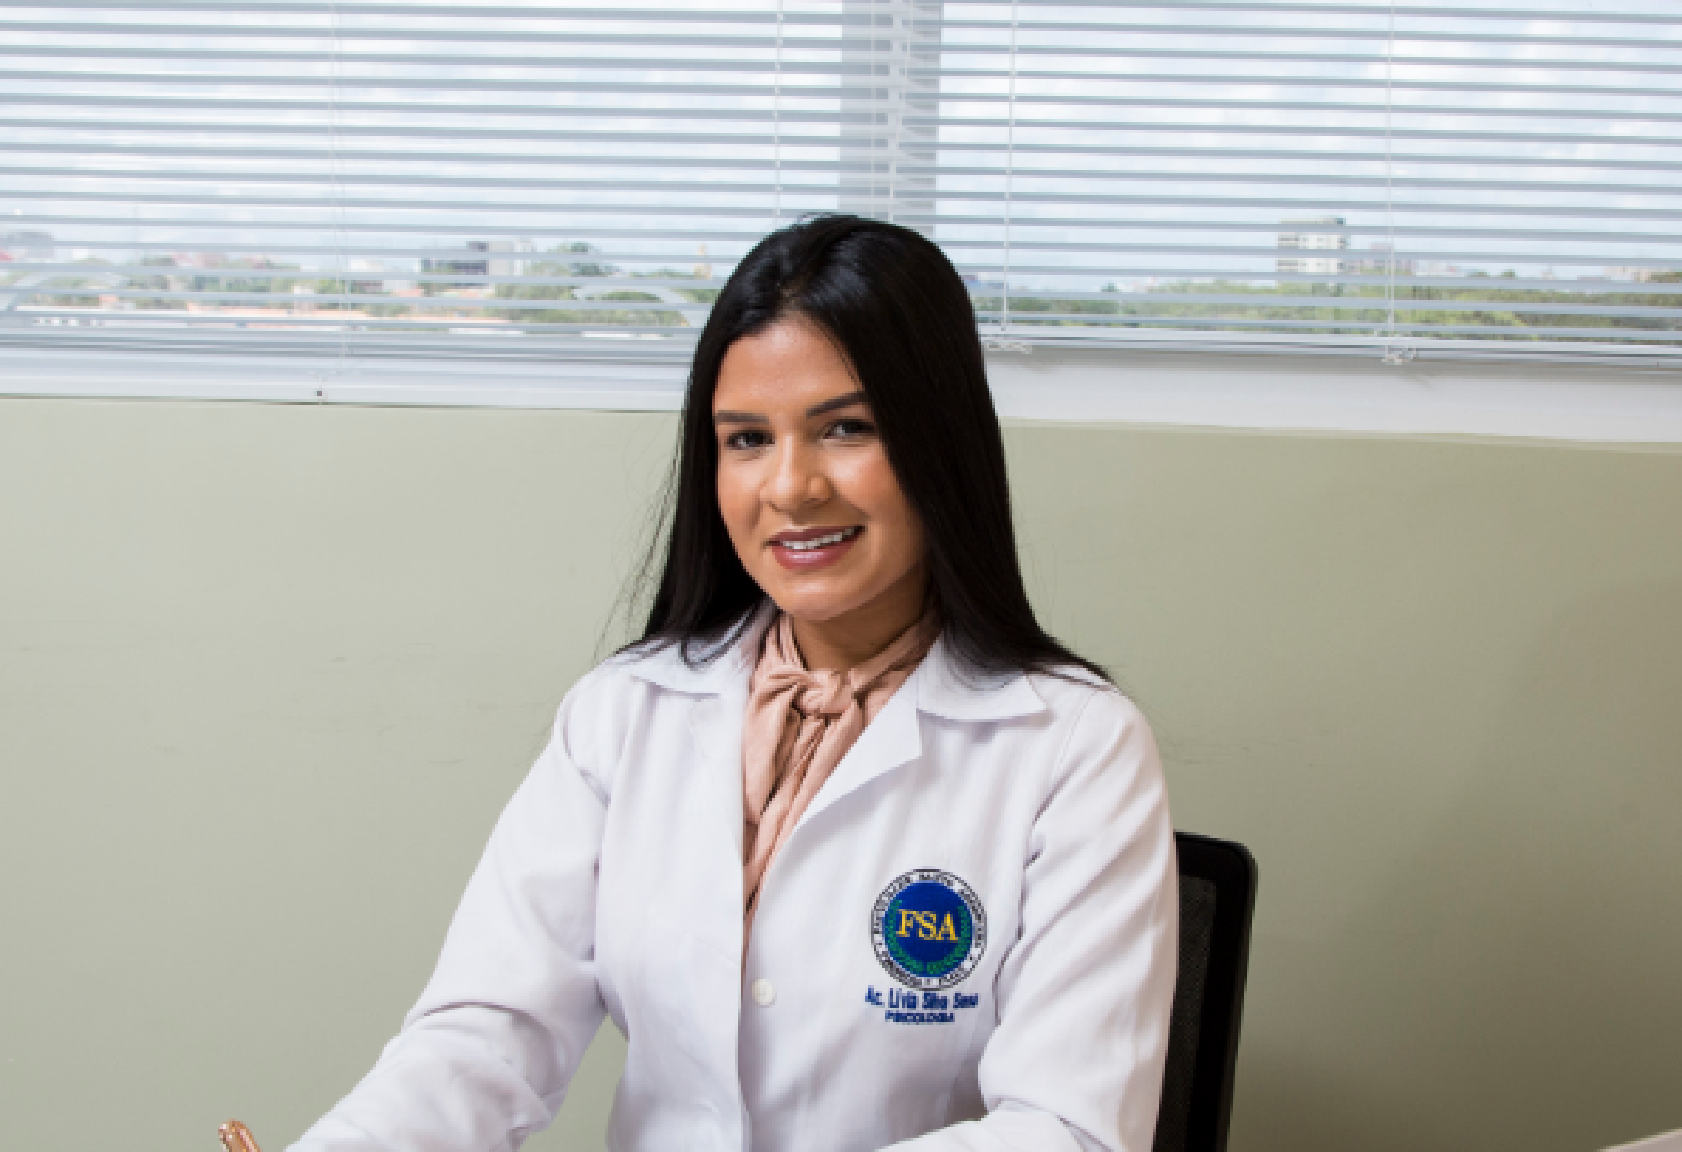
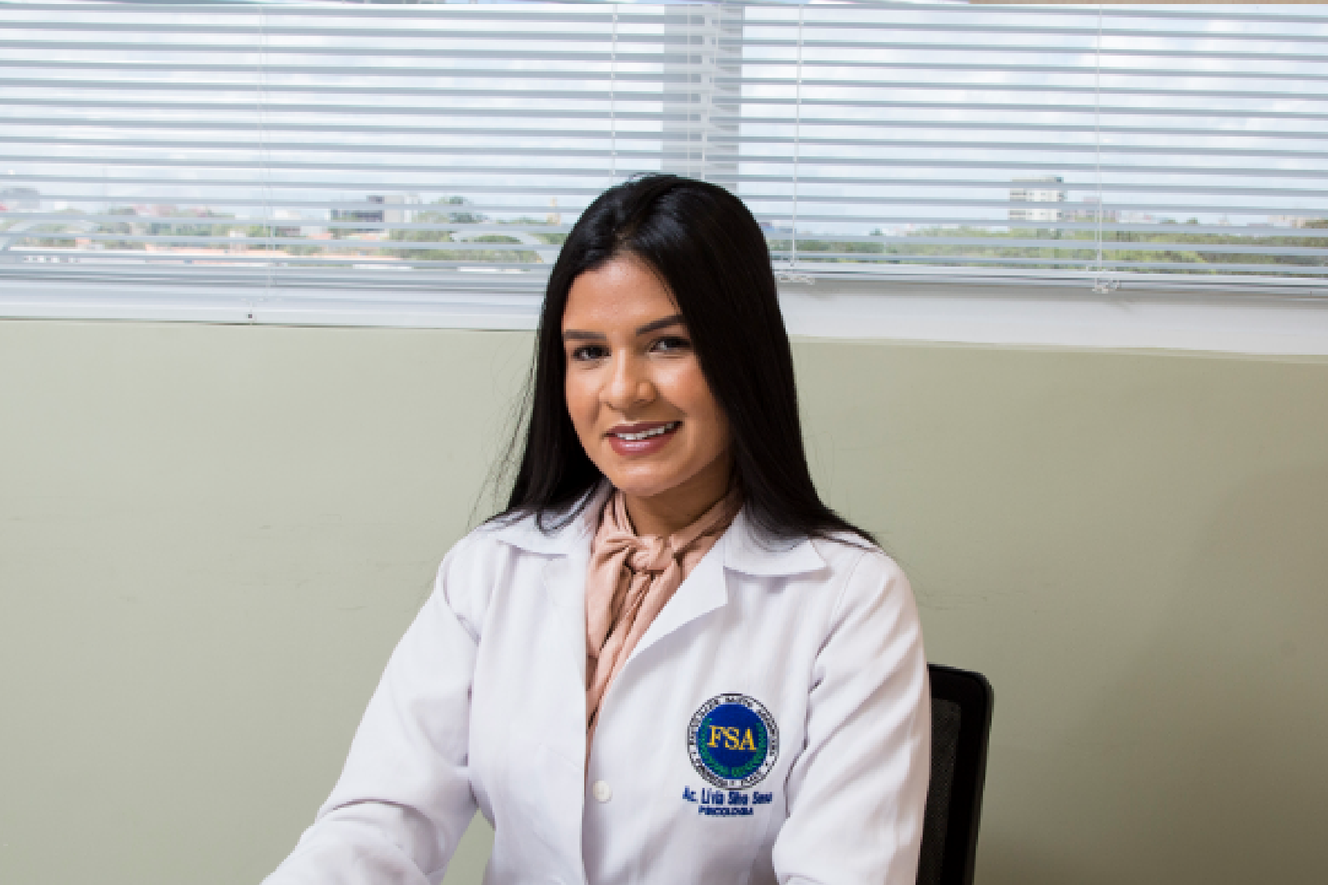
Modal em produção

diff --git a/index.html b/index.html
@@ -88,7 +88,7 @@
                         <div class="col-12">
 
                                 <div class="mt-3 mb-4 text-center">
-                                    <img class="grupo " src="images/grupo.png" alt="">
+                                    <img class="grupo " src="images/grupo2.png" alt="">
                                 </div>
 
                                 <div class="text-center hero-text">
@@ -131,7 +131,7 @@
                         apenas para classes com maior poder aquisitivo.
                     </p>
 
-                    <img class="img-beyon" src="./images/beyon.png" alt="">
+                    <img  class="img-beyon" src="./images/beyon.png" alt="" data-aos="fade-up" data-aos-delay="300">
 
                 </div>
 
@@ -148,6 +148,178 @@
    
         </div>
     </section>
+
+    <!-- MODAL -->
+
+    <div class="modal fade" id="wellington" tabindex="-1" role="dialog">
+        <div class="modal-dialog" role="document">
+            <div class="modal-content">
+                <div class="modal-header">
+                    <h5 class="modal-title cor_padrao">Wellington</h5>
+                    
+                    <button type="button" class="close" data-dismiss="modal">
+                        <span>&times;</span>
+                    </button>
+                </div>
+                <div class="modal-body mt-2">
+                    <img src="images/class/prof1.png" class="img-fluid" alt="Class">
+                    <p class="mt-3">Lorem ipsum dolor sit amet consectetur adipisicing elit. Iste ducimus commodi, perferendis nam maiores repellat rerum, nemo totam, fuga deleniti nobis qui. Quasi cumque doloribus autem. Commodi aut aliquid iusto!</p>
+                </div>
+                <div class="modal-footer mt-3">
+                    <button type="button" class="btn btn-beyon" data-dismiss="modal">Fechar</button>
+                </div>
+            </div>
+        </div>
+    </div>
+
+    <div class="modal fade" id="danyele" tabindex="-1" role="dialog">
+        <div class="modal-dialog" role="document">
+            <div class="modal-content">
+                <div class="modal-header">
+                    <h5 class="modal-title cor_padrao">Danyele Faustino</h5>
+                    
+                    <button type="button" class="close" data-dismiss="modal">
+                        <span>&times;</span>
+                    </button>
+                </div>
+                <div class="modal-body mt-2">
+                    <img src="images/class/prof2.png" class="img-fluid" alt="Class">
+                    <p class="mt-3">Lorem ipsum dolor sit amet consectetur adipisicing elit. Iste ducimus commodi, perferendis nam maiores repellat rerum, nemo totam, fuga deleniti nobis qui. Quasi cumque doloribus autem. Commodi aut aliquid iusto!</p>
+                </div>
+                <div class="modal-footer mt-3">
+                    <button type="button" class="btn btn-beyon" data-dismiss="modal">Fechar</button>
+                </div>
+            </div>
+        </div>
+    </div>
+
+    <div class="modal fade" id="mauríco" tabindex="-1" role="dialog">
+        <div class="modal-dialog" role="document">
+            <div class="modal-content">
+                <div class="modal-header">
+                    <h5 class="modal-title cor_padrao">Mauríco Santos</h5>
+                    
+                    <button type="button" class="close" data-dismiss="modal">
+                        <span>&times;</span>
+                    </button>
+                </div>
+                <div class="modal-body mt-2">
+                    <img src="images/class/prof5.png" class="img-fluid" alt="Class">
+                    <p class="mt-3">Lorem ipsum dolor sit amet consectetur adipisicing elit. Iste ducimus commodi, perferendis nam maiores repellat rerum, nemo totam, fuga deleniti nobis qui. Quasi cumque doloribus autem. Commodi aut aliquid iusto!</p>
+                </div>
+                <div class="modal-footer mt-3">
+                    <button type="button" class="btn btn-beyon" data-dismiss="modal">Fechar</button>
+                </div>
+            </div>
+        </div>
+    </div>
+
+    <div class="modal fade" id="livia" tabindex="-1" role="dialog">
+        <div class="modal-dialog" role="document">
+            <div class="modal-content">
+                <div class="modal-header">
+                    <h5 class="modal-title cor_padrao">Mauríco Santos</h5>
+                    
+                    <button type="button" class="close" data-dismiss="modal">
+                        <span>&times;</span>
+                    </button>
+                </div>
+                <div class="modal-body mt-2">
+                    <img src="images/class/prof4.png" class="img-fluid" alt="Class">
+                    <p class="mt-3">Lorem ipsum dolor sit amet consectetur adipisicing elit. Iste ducimus commodi, perferendis nam maiores repellat rerum, nemo totam, fuga deleniti nobis qui. Quasi cumque doloribus autem. Commodi aut aliquid iusto!</p>
+                </div>
+                <div class="modal-footer mt-3">
+                    <button type="button" class="btn btn-beyon" data-dismiss="modal">Fechar</button>
+                </div>
+            </div>
+        </div>
+    </div>
+
+    <div class="modal fade" id="veraluce" tabindex="-1" role="dialog">
+        <div class="modal-dialog" role="document">
+            <div class="modal-content">
+                <div class="modal-header">
+                    <h5 class="modal-title cor_padrao">Veraluce Neres</h5>
+                    
+                    <button type="button" class="close" data-dismiss="modal">
+                        <span>&times;</span>
+                    </button>
+                </div>
+                <div class="modal-body mt-2">
+                    <img src="images/class/prof662.png" class="img-fluid" alt="Class">
+                    <p class="mt-3">Lorem ipsum dolor sit amet consectetur adipisicing elit. Iste ducimus commodi, perferendis nam maiores repellat rerum, nemo totam, fuga deleniti nobis qui. Quasi cumque doloribus autem. Commodi aut aliquid iusto!</p>
+                </div>
+                <div class="modal-footer mt-3">
+                    <button type="button" class="btn btn-beyon" data-dismiss="modal">Fechar</button>
+                </div>
+            </div>
+        </div>
+    </div>
+
+    <div class="modal fade" id="patricia" tabindex="-1" role="dialog">
+        <div class="modal-dialog" role="document">
+            <div class="modal-content">
+                <div class="modal-header">
+                    <h5 class="modal-title cor_padrao">Patricia de Oliveira</h5>
+                    
+                    <button type="button" class="close" data-dismiss="modal">
+                        <span>&times;</span>
+                    </button>
+                </div>
+                <div class="modal-body mt-2">
+                    <img src="images/class/prof7.png" class="img-fluid" alt="Class">
+                    <p class="mt-3">Lorem ipsum dolor sit amet consectetur adipisicing elit. Iste ducimus commodi, perferendis nam maiores repellat rerum, nemo totam, fuga deleniti nobis qui. Quasi cumque doloribus autem. Commodi aut aliquid iusto!</p>
+                </div>
+                <div class="modal-footer mt-3">
+                    <button type="button" class="btn btn-beyon" data-dismiss="modal">Fechar</button>
+                </div>
+            </div>
+        </div>
+    </div>
+
+    <div class="modal fade" id="margareth" tabindex="-1" role="dialog">
+        <div class="modal-dialog" role="document">
+            <div class="modal-content">
+                <div class="modal-header">
+                    <h5 class="modal-title cor_padrao">Margareth Almeida</h5>
+                    
+                    <button type="button" class="close" data-dismiss="modal">
+                        <span>&times;</span>
+                    </button>
+                </div>
+                <div class="modal-body mt-2">
+                    <img src="images/class/prof8.png" class="img-fluid" alt="Class">
+                    <p class="mt-3">Lorem ipsum dolor sit amet consectetur adipisicing elit. Iste ducimus commodi, perferendis nam maiores repellat rerum, nemo totam, fuga deleniti nobis qui. Quasi cumque doloribus autem. Commodi aut aliquid iusto!</p>
+                </div>
+                <div class="modal-footer mt-3">
+                    <button type="button" class="btn btn-beyon" data-dismiss="modal">Fechar</button>
+                </div>
+            </div>
+        </div>
+    </div>
+
+    <div class="modal fade" id="tamires" tabindex="-1" role="dialog">
+        <div class="modal-dialog" role="document">
+            <div class="modal-content">
+                <div class="modal-header">
+                    <h5 class="modal-title cor_padrao">Tamires Saboia</h5>
+                    
+                    <button type="button" class="close" data-dismiss="modal">
+                        <span>&times;</span>
+                    </button>
+                </div>
+                <div class="modal-body mt-2">
+                    <img src="images/class/prof9.png" class="img-fluid" alt="Class">
+                    <p class="mt-3">Lorem ipsum dolor sit amet consectetur adipisicing elit. Iste ducimus commodi, perferendis nam maiores repellat rerum, nemo totam, fuga deleniti nobis qui. Quasi cumque doloribus autem. Commodi aut aliquid iusto!</p>
+                </div>
+                <div class="modal-footer mt-3">
+                    <button type="button" class="btn btn-beyon" data-dismiss="modal">Fechar</button>
+                </div>
+            </div>
+        </div>
+    </div>
+
+<!-- FIM MODAL -->
 
      <!-- PROFISSIONAIS -->
      <section class="class section" id="prof">
@@ -168,7 +340,7 @@
                                         <h3 class="text-center">Wellington Santos </h3>
 
                                         <p>
-                                            <strong >Piscólogo Clínico</strong> <br>
+                                            <strong >Psicólogo Clínico</strong> <br>
                                             <strong>CRP - </strong>
                                            
                                             021/03965
@@ -188,9 +360,9 @@
                                         <h3 class="mb-1">Danyele Faustino</h3>
 
                                         <p>
-                                            <strong >Piscóloga/Terapia Cognitivas</strong> <br>
+                                            <strong >Psicóloga/Terapia Cognitivas</strong> <br>
                                             <strong>CRP - </strong>
-                                            03364
+                                            021/03364
                                         </p>
 
                                         <button class="btn-beyon">Saiba mais</button>
@@ -226,11 +398,11 @@
                                     <div class="class-info">
                                         <h3 class="mb-1">Livia Santos</h3>
                                         <p>
-                                            <strong >Piscóloga</strong> <br>
+                                            <strong >Psicóloga</strong> <br>
                                             <strong>CRP - </strong>
-                                            04136
+                                            021/04136
                                         </p>
-
+                                        <br>
                                         <button class="btn-beyon">Saiba mais</button>
                                     </div>
                                 </div>
@@ -248,9 +420,9 @@
                                         <h3 class="mb-1">Veraluce Neres</h3>
 
                                         <p>
-                                            <strong >Piscóloga</strong> <br>
+                                            <strong >Psicóloga</strong> <br>
                                             <strong>CRP - </strong>
-                                            03907
+                                            021/03907
                                         </p>
 
                                         <button class="btn-beyon">Saiba mais</button>
@@ -267,9 +439,9 @@
                                         <h3 class="mb-1">patricia de Oliveira</h3>
 
                                         <p>
-                                            <strong >Piscóloga</strong> <br>
+                                            <strong >Psicóloga</strong> <br>
                                             <strong>CRP - </strong>
-                                            04004
+                                            021/04004
                                         </p>
 
                                         <button class="btn-beyon">Saiba mais</button>
@@ -305,8 +477,8 @@
                                         <h3 class="mb-1">Tamires Saboia</h3>
                                         <p>
                                             <strong >Fonoaudióloga</strong> <br>
-                                            <strong>CRP - </strong>
-                                            11071
+                                            <strong>CRF - </strong>
+                                            8-11071
                                         </p>
 
                                         <button class="btn-beyon">Saiba mais</button>
@@ -318,7 +490,7 @@
                     </div>
 
                     <div class="text-center justify-content-center mt-4 hero-text">
-                        <a href="#schedule" class="btn custom-btn-second mt-3" data-aos="fade-up" data-aos-delay="100"> <i class="fa fa-angle-double-down" ></i></a>
+                        <a href="#contact" class="btn custom-btn-second mt-3" data-aos="fade-up" data-aos-delay="100"> <i class="fa fa-angle-double-down" ></i></a>
                     </div>
                </div>
      </section>
@@ -467,15 +639,23 @@
                                         <h3 class="text-center">Contato</h3>
                                     </div>
                                     <div class="ml-auto col-sm-6 ">
-                                        <h6 class="text-center">(86) 8141-0405
-                                            <i class="fa fa-whatsapp mr-1"></i>     
+                                        <h6 class="text-center">
+                                            <a  class="link-whatsapp" href="https://wa.me/5586981410405">
+                                                (86) 9 8141-0405
+                                                <i class="fa fa-whatsapp mr-1"></i>
+                                            </a>
+                                                 
                                         </h6>
                                        
                                     </div>
                 
                                     <div class="ml-auto col-sm-6 mb-4">
-                                        <h6 class="">beyondtherapy20@gmail.com
-                                        <i class="fa fa-envelope-o mr-1"></i>
+                                        <h6 class="">
+                                        <a class="link-whatsapp" href="mailto:beyondtherapy20@gmail.com">
+                                            beyondtherapy20@gmail.com
+                                            <i class="fa fa-envelope-o mr-1"></i>
+                                        </a>    
+                                        
                                         </h6>
                                     </div>
                                

diff --git a/css/tooplate-gymso-style.css b/css/tooplate-gymso-style.css
@@ -161,6 +161,10 @@
     cursor: pointer;
   }
 
+  button {
+    outline: none;
+  }
+
   .btn-beyon:hover {
     background: #6c4bc8;
   }
@@ -238,6 +242,7 @@
     text-decoration: none;
     transition: all 0.3s ease;
   }
+
 
   a:hover, 
   a:active, 
@@ -716,6 +721,16 @@
   .social-icon li a:hover {
     color: var(--primary-color);
   }
+
+  .link-whatsapp {
+    color: #4621AD !important; 
+  }
+
+  .link-whatsapp:hover{
+    color: #47A4AD !important; 
+  }
+
+
 
 
   /*---------------------------------------
